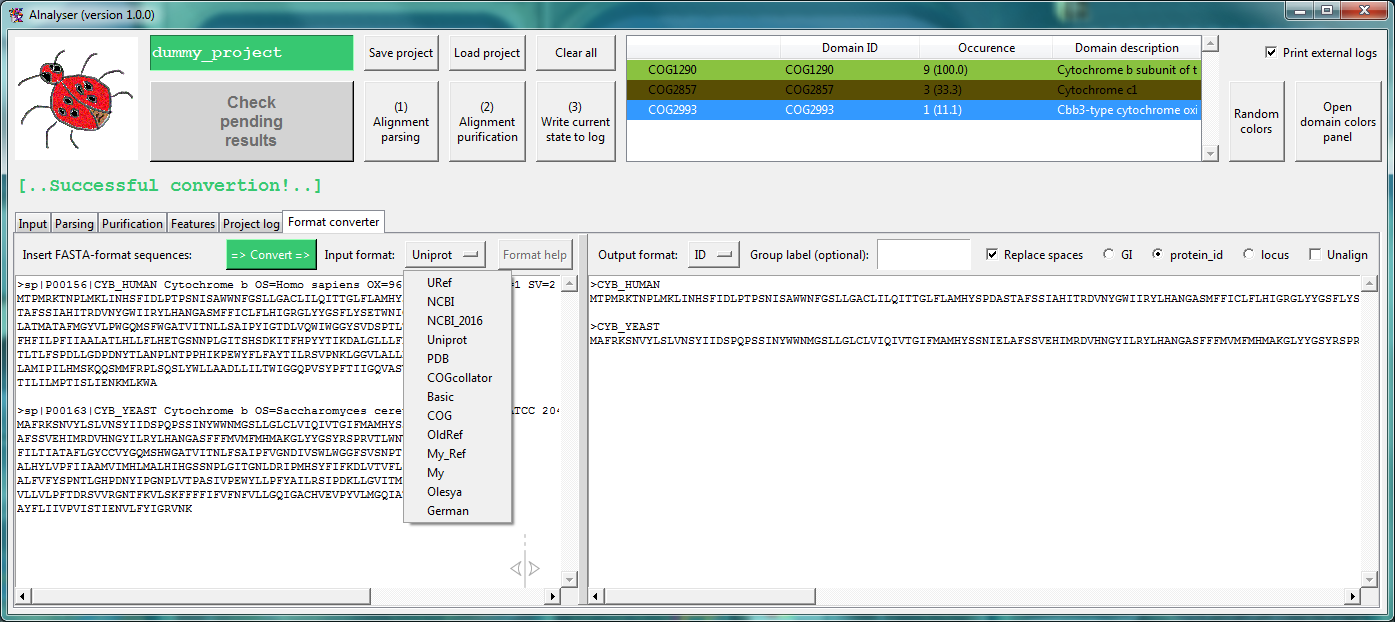
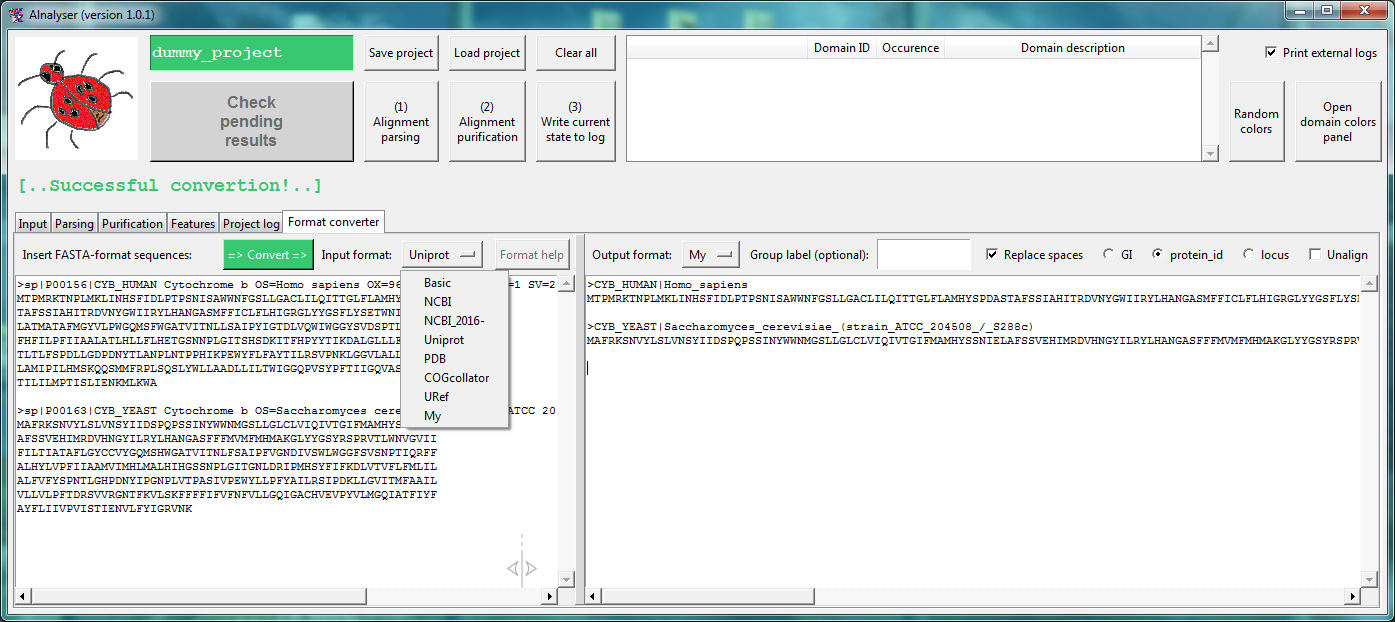
Input and output formats available in the 'Format converter' tab are changed

diff --git a/modules_and_scripts/udav_fasta.py b/modules_and_scripts/udav_fasta.py
@@ -5,7 +5,7 @@ Currently the following formats are accepted: My_Ref, My (v1.3), Uniprot (v1.4),
                                               NCBI (v.2.4), Olesya (v.2.10), COGcollator (v.2.11),
                                               German (v.2.12)
 Now exceptions are considered: FIX: version 2.12
-------- Version: 2.22
+------- Version: 2.23
 Methods included in this module:
         1) dict unredun_org (input_filename, output_filename)
            a)  Reads <input_filename> which is expected to be *.org file produces with the 
@@ -156,8 +156,9 @@ class Annotated_sequence(Sequence):
                 result = ">%s|%s|%s\n" % (req_id, prot_type, org)
         if format == "Basic":
            result = ">%s %s\n" % (req_id, org)
-        if format == "NCBI":
-           result = ">gi|%s|ref|%s %s [%s]\n" % (self.gi, self.protein_id, self.product, self.organism)            
+        if format == "NCBI": #FIX: version 2.23 (new NCBI format is now used)
+           #result = ">gi|%s|ref|%s %s [%s]\n" % (self.gi, self.protein_id, self.product, self.organism)            
+           result = ">%s %s [%s]\n" % (req_id, self.product, self.organism)            
         if format == "ID":
            result = ">%s\n" % req_id
         if format == "Table":
@@ -361,13 +362,13 @@ def get_sequence_data (string, format):
         result_seq = Annotated_sequence(fields[1], fields[3], "Unk", fields[5], fields[7],
                               -1, -1, 0, "Unk", fields[6], string) 
 
-    if format == "NCBI": #FIX: version 2.4
+    if format == "NCBI_2016-": #FIX: version 2.4 (in version 2.23 name of format is changed to 'NCBI_2016-')
         #>gi|365992322|ref|NP_212397.2| signal peptidase I [Borrelia burgdorferi B31]
         #Now also the following strings, FIX: version 2.7
         #>gi|57116782|ref|NP_215295.2| Probable protease II PtrBb [second part] (oligopeptidase B) [Mycobacterium tuberculosis H37Rv]
         fields = string.split(" ", 1)
         if len(fields) != 2:
-            print "FATAL ERROR: Unexpected file format. Check that 'NCBI' format was used!"
+            print "FATAL ERROR: Unexpected file format. Check that 'NCBI_2016-' (old NCBI) format was used!"
             print "Number of fields: %i" % len(fields)
             print "String = %s" % string                    
             raise FastaException
@@ -381,7 +382,7 @@ def get_sequence_data (string, format):
         result_seq = Annotated_sequence(gi, protein_id, "Unk", product, org, -1, -1, 0, 
                                         "Unk", "Unk", string) 
 
-    if format == "NCBI_2016": #FIX: version 2.16
+    if format == "NCBI": #FIX: version 2.16 (in version 2.23 name of format is changed to simple 'NCBI')
         #>NP_212397.2 signal peptidase I [Borrelia burgdorferi B31]
         fields = string.split(" ", 1)
         if len(fields) != 2:

diff --git a/AlnConverter.py b/AlnConverter.py
@@ -29,8 +29,9 @@ class AlnConverter(tkinter.Frame):
         self.input_frame.button.configure(command = self.convert)
         tkinter.Label(self.input_frame.panel, text = "Input format:").grid(row = 0, column = 2, sticky = "NSW")
         self.input_format = tkinter.StringVar()
-        self.input_format.set("URef")
-        input_format = tkinter.OptionMenu(self.input_frame.panel, self.input_format, "URef", "NCBI", "NCBI_2016", "Uniprot", "PDB", "COGcollator", "Basic", "COG", "OldRef", "My_Ref", "My", "Olesya", "German") 
+        self.input_format.set("Basic")
+        #input_format = tkinter.OptionMenu(self.input_frame.panel, self.input_format, "URef", "NCBI", "NCBI_2016", "Uniprot", "PDB", "COGcollator", "Basic", "COG", "OldRef", "My_Ref", "My", "Olesya", "German") 
+        input_format = tkinter.OptionMenu(self.input_frame.panel, self.input_format, "Basic", "NCBI", "NCBI_2016-", "Uniprot", "PDB", "COGcollator", "URef", "My")
         input_format.grid(row = 0, column = 3, sticky = "NSW", padx = self.p, pady = self.p)      
         help_button = tkinter.Button(self.input_frame.panel, state = tkinter.DISABLED, text = "Format help", command = self.show_help)
         help_button.grid(row = 0, column = 4, sticky = "NSW", padx = self.p, pady = self.p)   

diff --git a/Alnalyser.py b/Alnalyser.py
@@ -3,7 +3,7 @@
 This is a main script of the <Alnalyser> program
 @ Daria Dibrova aka udavdasha
 """
-curr_version = "1.0.1"
+curr_version = "1.0.2"
 import Tkinter as tkinter
 import tkMessageBox, tkFileDialog
 import ttk
